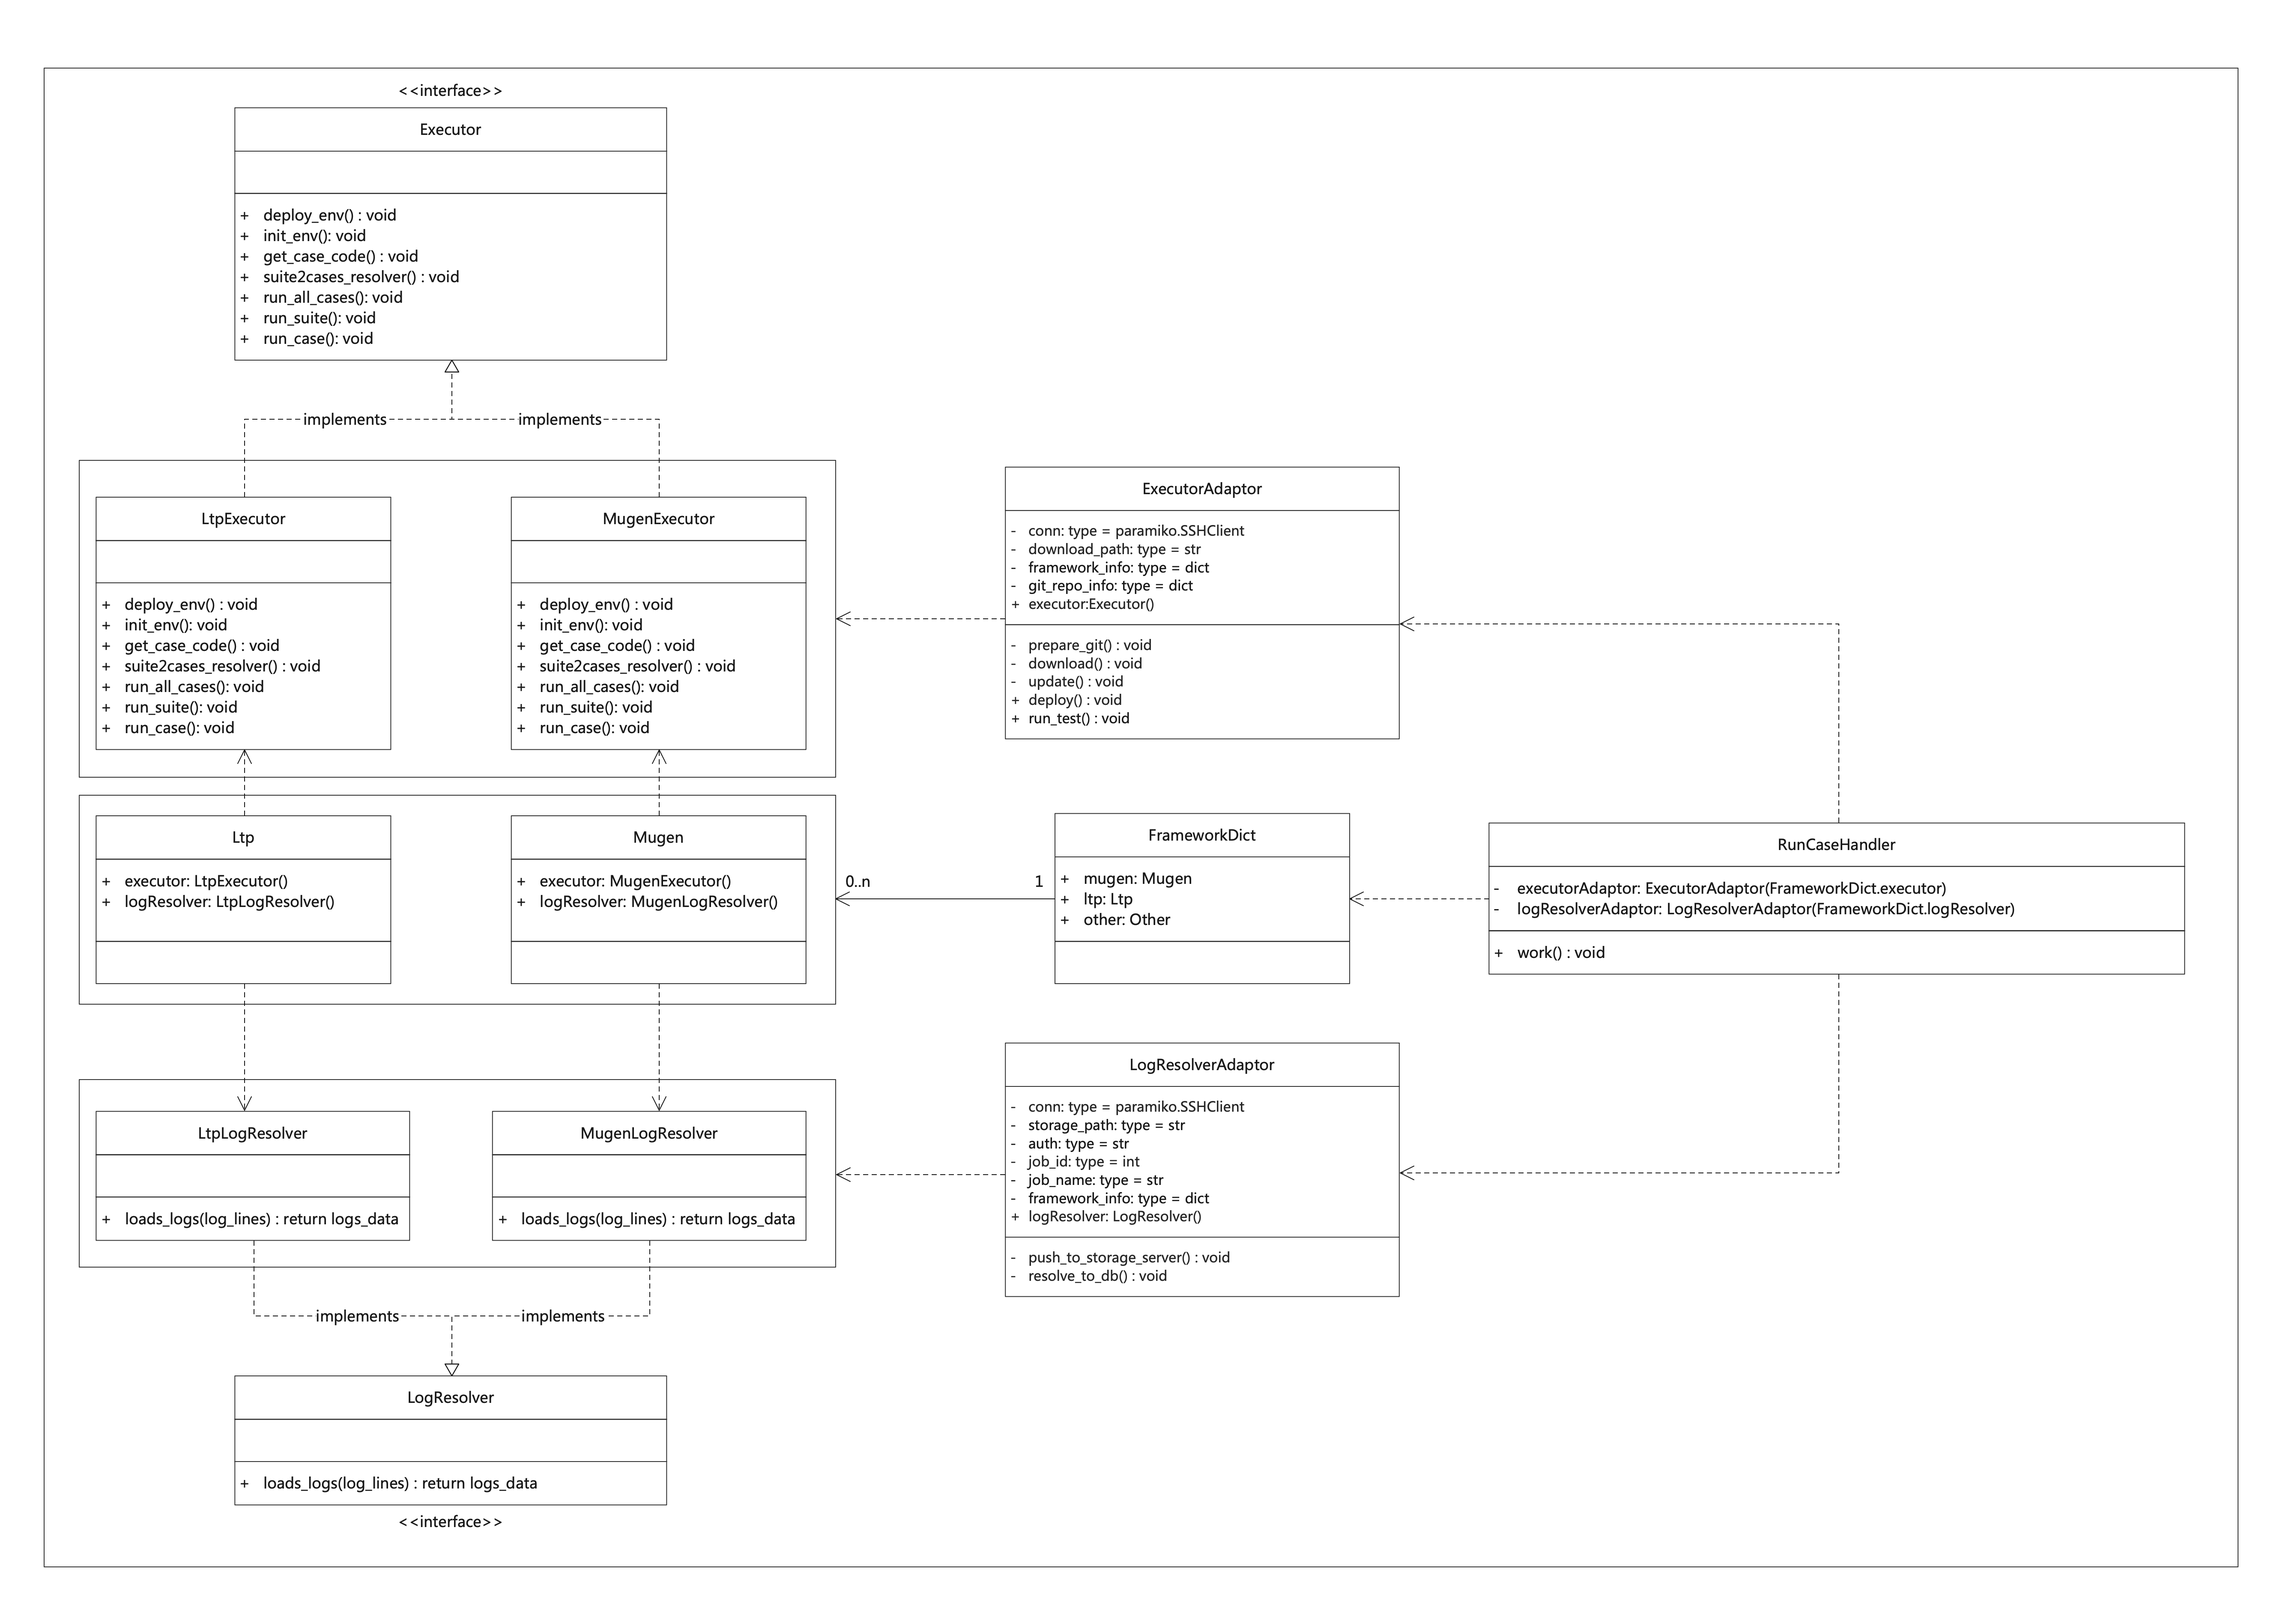
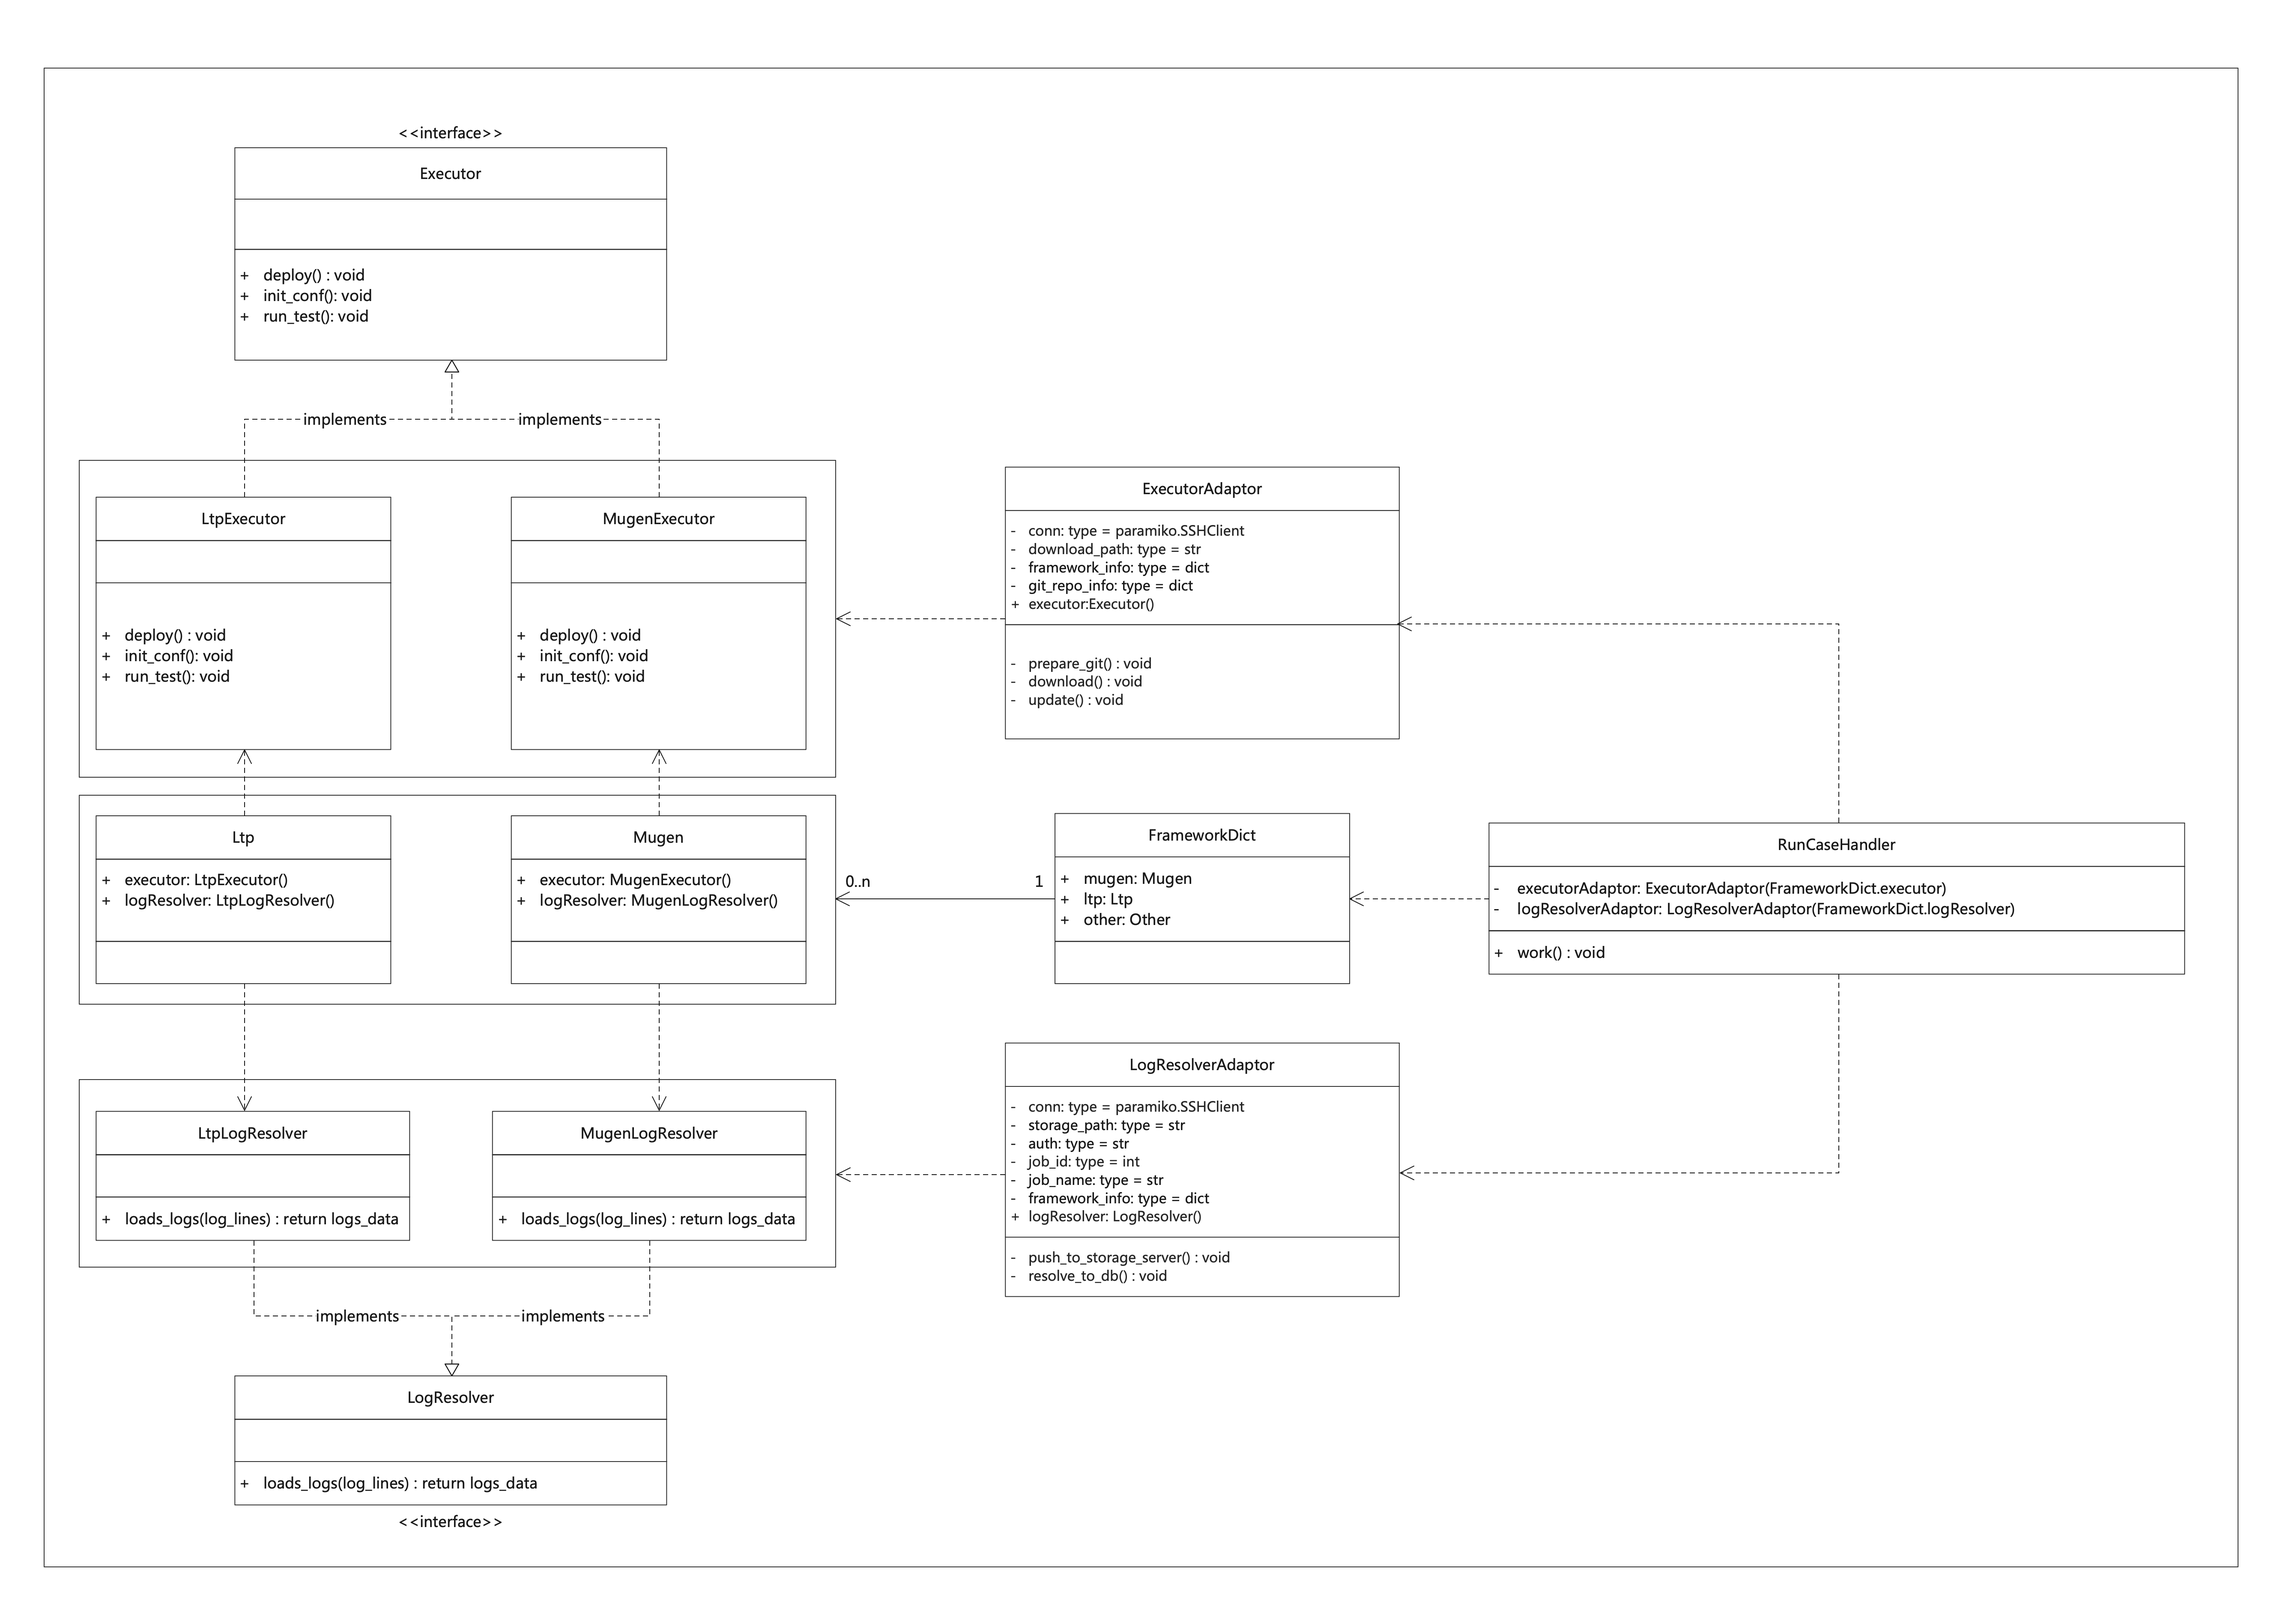
机器组心跳状态展示优化（分离心跳时间和是否活跃）
文本用例创建表单不显示debug

用例评审详情查询接口相应数据结构debug

框架适配器类图修改

diff --git a/radiaTest-web/src/views/caseManage/folderView/folderView.vue b/radiaTest-web/src/views/caseManage/folderView/folderView.vue
@@ -9,15 +9,16 @@
       @submit="submitCreateCase"
     >
       <template #form>
-        <n-tabs type="line" size="large" :tab-padding="20"  @update:value="(value)=>createFormRef.changeTabs(value)">
-          <n-tab-pane tab="info" name="基本信息" @click="createFormRef.changeTabs('info')">
+        <n-tabs 
+          type="line" 
+          size="large" 
+          :tab-padding="20"  
+          @update:value="(value)=>createFormRef.changeTabs(value)"
+        >
+          <n-tab-pane tab="基本信息" name="basic">
             <div></div>
           </n-tab-pane>
-          <n-tab-pane
-            name="详细内容"
-            tab="content"
-            @click="createFormRef.changeTabs('content')"
-          >
+          <n-tab-pane tab="详细内容" name="detail">
             <div></div>
           </n-tab-pane>
         </n-tabs>

diff --git a/radiaTest-web/src/views/caseManage/testcase/Testcase.vue b/radiaTest-web/src/views/caseManage/testcase/Testcase.vue
@@ -30,18 +30,10 @@
                 :tab-padding="20"
                 @update:value="(value) => createFormRef.changeTabs(value)"
               >
-                <n-tab-pane
-                  name="info"
-                  tab="基本信息"
-                  @click="createFormRef.changeTabs('info')"
-                >
+                <n-tab-pane tab="基本信息" name="basic">
                   <div></div>
                 </n-tab-pane>
-                <n-tab-pane
-                  name="content"
-                  tab="详细内容"
-                  @click="createFormRef.changeTabs('content')"
-                >
+                <n-tab-pane tab="详细内容" name="detail">
                   <div></div>
                 </n-tab-pane>
               </n-tabs>

diff --git a/radiaTest-web/src/views/resourcePool/resourcePool.vue b/radiaTest-web/src/views/resourcePool/resourcePool.vue
@@ -238,9 +238,9 @@ export default {
           it.children[1].color = 'rgba(0,0,0,0)';
           it.children[2].color = 'rgba(0,0,0,0)';
           setTimeout(() => {
-            it.children[0].color = it.children[0].suffix === '刚刚' ? 'green' : 'red';
-            it.children[1].color = it.children[1].suffix === '刚刚' ? 'green' : 'red';
-            it.children[2].color = it.children[2].suffix === '刚刚' ? 'green' : 'red';
+            it.children[0].color = item.messenger_alive ? 'green' : 'red';
+            it.children[1].color = item.pxe_alive ? 'green' : 'red';
+            it.children[2].color = item.dhcp_alive ? 'green' : 'red';
           }, 50);
         });
       }

diff --git a/radiaTest-web/src/views/pmachine/Pmachine.vue b/radiaTest-web/src/views/pmachine/Pmachine.vue
@@ -31,14 +31,12 @@
               <n-tab-pane
                 tab="基本参数"
                 name="basic"
-                @click="createFormRef.changeTabs('basic')"
               >
                 <div></div>
               </n-tab-pane>
               <n-tab-pane
                 tab="SSH参数"
                 name="ssh"
-                @click="createFormRef.changeTabs('ssh')"
               >
                 <div></div>
               </n-tab-pane>

diff --git a/radiaTest-web/src/components/testcaseComponents/TestcaseCreateForm.vue b/radiaTest-web/src/components/testcaseComponents/TestcaseCreateForm.vue
@@ -1,5 +1,5 @@
 <template>
-  <div v-show="tab === 'info'">
+  <div v-show="tab === 'basic'">
     <n-form
       :label-width="40"
       :model="infoFormValue"
@@ -158,7 +158,7 @@
       </n-grid>
     </n-form>
   </div>
-  <div v-show="tab === 'content'">
+  <div v-show="tab === 'detail'">
     <n-form
       :label-width="40"
       :model="contentFormValue"

diff --git a/radiaTest-web/src/views/caseManage/testcase/modules/createForm.js b/radiaTest-web/src/views/caseManage/testcase/modules/createForm.js
@@ -3,7 +3,7 @@ import axios from '@/axios';
 
 const size = ref('medium');
 
-const tab = ref('info');
+const tab = ref('basic');
 
 const diskUsage = ref(null);
 
@@ -81,6 +81,7 @@ const clean = () => {
     steps: undefined,
     expection: undefined,
   };
+  tab.value = 'basic';
 };
 
 const infoRules = ref({

diff --git a/radiaTest-server/server/model/pmachine.py b/radiaTest-server/server/model/pmachine.py
@@ -30,6 +30,9 @@ class MachineGroup(EmitDataModel, PermissionBaseModel, db.Model):
 
     cert_path = db.Column(db.String(256), nullable=False)
 
+    messenger_alive = db.Column(db.Boolean(), nullable=False, default=False)
+    pxe_alive = db.Column(db.Boolean(), nullable=False, default=False)
+    dhcp_alive = db.Column(db.Boolean(), nullable=False, default=False)
     messenger_last_heartbeat = db.Column(db.DateTime())
     pxe_last_heartbeat = db.Column(db.DateTime())
     dhcp_last_heartbeat = db.Column(db.DateTime())
@@ -43,7 +46,7 @@ class MachineGroup(EmitDataModel, PermissionBaseModel, db.Model):
     def delete(self, table=None, namespace=None, broadcast=False):
         _cert_path = self.cert_path
 
-        super().delete(table=None, namespace=None, broadcast=False)
+        super().delete(table, namespace, broadcast)
         
         if os.path.isfile(_cert_path):
             os.remove(_cert_path)
@@ -65,6 +68,9 @@ class MachineGroup(EmitDataModel, PermissionBaseModel, db.Model):
             "websockify_ip": self.websockify_ip,
             "websockify_listen": self.websockify_listen,
             "cert_path": self.cert_path,
+            "messenger_alive": self.messenger_alive,
+            "pxe_alive": self.pxe_alive,
+            "dhcp_alive": self.dhcp_alive,
             "messenger_last_heartbeat": self._change_format(self.messenger_last_heartbeat),
             "pxe_last_heartbeat": self._change_format(self.pxe_last_heartbeat),
             "dhcp_last_heartbeat": self._change_format(self.dhcp_last_heartbeat),

diff --git a/radiaTest-server/server/schema/pmachine.py b/radiaTest-server/server/schema/pmachine.py
@@ -115,11 +115,21 @@ class HeartbeatUpdateSchema(BaseModel):
     pxe_alive: bool
     dhcp_alive: bool
 
-    @validator("messenger_ip")
-    def check_messenger_ip_format(cls, v):
-        if not ip_type(v):
-            raise ValueError("this messenger_ip of machine group format error")
-        return v
+    @root_validator
+    def heartbeat_validation(cls, values):
+        if not ip_type(values.get("messenger_ip")):
+            raise ValueError("the IP is in wrong format")
+        
+        current_datetime = datetime.datetime.now()
+
+        if values.get("messenger_alive"):
+            values["messenger_last_heartbeat"] = current_datetime
+        if values.get("pxe_alive"):
+            values["pxe_last_heartbeat"] = current_datetime
+        if values.get("dhcp_alive"):
+            values["dhcp_last_heartbeat"] = current_datetime
+        
+        return values
 
 
 class PmachineQuerySchema(PageBaseSchema):

diff --git a/radiaTest-server/server/apps/pmachine/routes.py b/radiaTest-server/server/apps/pmachine/routes.py
@@ -111,22 +111,13 @@ class MachineGroupHeartbeatEvent(Resource):
                 error_code=RET.NO_DATA_ERR,
                 error_msg="the machine group does not exist"
             )
-
-        current_datetime = datetime.datetime.now()
-
-        if body.messenger_alive:
-            machine_group.messenger_last_heartbeat = current_datetime
-        if body.pxe_alive:
-            machine_group.pxe_last_heartbeat = current_datetime
-        if body.dhcp_alive:
-            machine_group.dhcp_last_heartbeat = current_datetime
         
-        machine_group.add_update(MachineGroup, "/machine_group", True)
+        _body = {
+            "id": machine_group.id,
+            **body.__dict__,
+        }
 
-        return jsonify(
-            error_code=RET.OK,
-            error_msg="OK",
-        )
+        return Edit(MachineGroup, _body).single(MachineGroup, "/machine_group")
 
 
 class PmachineItemEvent(Resource):

diff --git a/radiaTest-server/server/apps/testcase/handler.py b/radiaTest-server/server/apps/testcase/handler.py
@@ -658,7 +658,18 @@ class HandlerCaseReview(object):
     @staticmethod
     @collect_sql_error
     def handler_case_detail(commit_id):
-        return GetAllByPermission(Commit).precise({"id": commit_id})
+        commit = Commit.query.fiter_by(id=commit_id).first()
+        if not commit:
+            return jsonify(
+                error_code=RET.NO_DATA_ERR,
+                error_msg="the commit does not exist"
+            )
+
+        return jsonify(
+            error_code=RET.OK,
+            error_msg="OK",
+            data=commit.to_json()
+        )
 
     @staticmethod
     @collect_sql_error
